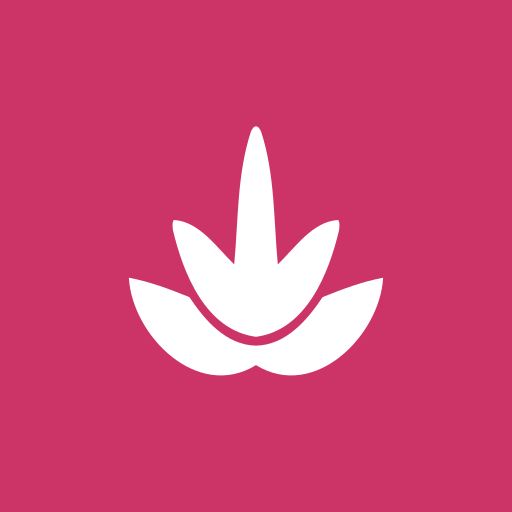
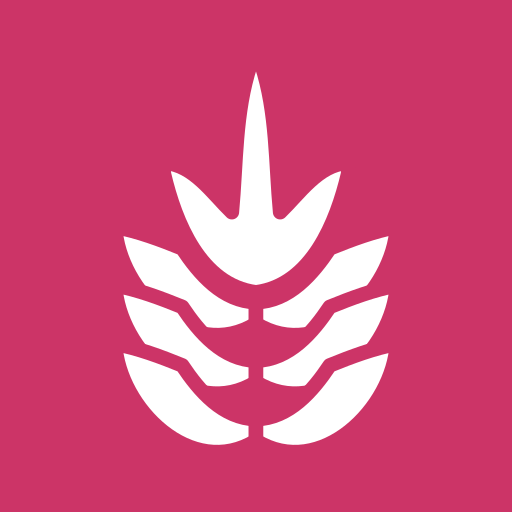
N1: update 8 files

Changed region(s): [[0.2188, 0.3438, 0.7812, 0.875], [0.4688, 0.1562, 0.5312, 0.3125]]

diff --git a/.workhorse/test-cases/n1/overview.md b/.workhorse/test-cases/n1/overview.md
@@ -1,19 +1,20 @@
 # Making the web client installable
 
-Covers the install criteria of [WEB](../../specs/web-app.md) and how the mark survives the platforms
-that redraw it. The manifest cases are automated in `crates/bliti-web/app/tests/installable.spec.js`;
+Covers the installability [WEB](../../specs/web-app.md) requires, and how the mark survives the
+platforms that redraw it. What a browser demands before it offers the install is the browser's own
+affair rather than something the spec fixes, so most of these cases stand on their own. The manifest cases are automated in `crates/bliti-web/app/tests/installable.spec.js`;
 the device cases are not automatable here, because whether a browser offers the install is the
 browser's own decision on its own hardware.
 
 ## The manifest
 
-- [x] The manifest is served and declares a name, a start URL and an installable display mode (verifies spec: WEB)
-- [x] The manifest declares a square PNG of at least 192px and one of at least 512px (verifies spec: WEB)
-- [x] The manifest declares a maskable icon (verifies spec: WEB)
-- [x] Every icon the manifest declares is served, and each PNG's real dimensions match the size it claims (verifies spec: WEB)
-- [x] The manifest states no preference for a related native application (verifies spec: WEB)
-- [x] The markup links the manifest, and a home-screen icon for platforms that ignore it (verifies spec: WEB)
-- [x] A service worker registers and serves the application's own assets (verifies spec: WEB)
+- [x] The manifest is served and declares a name, a start URL and an installable display mode
+- [x] The manifest declares a square PNG of at least 192px and one of at least 512px
+- [x] The manifest declares a maskable icon
+- [x] Every icon the manifest declares is served, and each PNG's real dimensions match the size it claims
+- [x] The manifest states no preference for a related native application
+- [x] The markup links the manifest, and a home-screen icon for platforms that ignore it
+- [x] A service worker registers and serves the application's own assets
 
 ## On an Android phone
 
@@ -22,7 +23,7 @@ rather than merely declared.
 
 - [ ] Chrome offers to install the application, over https, without the browser being coaxed by devtools (verifies spec: WEB)
 - [ ] The installed application launches from its home-screen icon into its own window, with no browser chrome (verifies spec: WEB)
-- [ ] The home-screen icon shows the flower, cropped to the launcher's shape without losing the mark (verifies spec: WEB)
+- [ ] The home-screen icon shows the flower, cropped to the launcher's shape without losing the mark
 - [ ] The installed application still opens a device's QR link, and still reaches the device over Bluetooth
 - [ ] With the phone offline, launching from the icon still loads the application and its icon (verifies spec: WEB)
 
@@ -30,10 +31,12 @@ rather than merely declared.
 
 Not the target device, but the path exists and the icon comes from the markup rather than the manifest.
 
-- [ ] Add to Home Screen gives the flower rather than a screenshot or a black tile (verifies spec: WEB)
+- [ ] Add to Home Screen gives the flower rather than a screenshot or a black tile
 
 ## The mark
 
-- [x] The flower reads at 192px, 96px and 48px without the petals merging
-- [x] The maskable icon keeps the flower inside the circle a launcher crops to (verifies spec: WEB)
+- [x] The flower reads at 192px and 96px with the chain of petals still distinct
+- [ ] The flower still reads at 48px and as a favicon, where the chain is busiest and the seams
+      between petals are close to vanishing
+- [x] The maskable icon fills the circle a launcher crops to, without the outermost petals crossing it
 - [ ] The icon is legible on a dark home-screen wallpaper and a light one

diff --git a/.workhorse/specs/web-app.md b/.workhorse/specs/web-app.md
@@ -55,32 +55,6 @@ The application MUST also be installable, such that a browser offers to add it t
 > Running uninstalled is what lets whoever is standing in front of a device provision it.
 > Working offline is what makes a phone that has opened the application before useful at a site with no connectivity, and it costs nothing, because the only transport to a device is the BLE channel of [CHN](channel.md).
 
-### Install criteria
-
-A browser decides whether to offer the install itself, against criteria it does not publish as a contract, so the following are what the application declares in order to meet them.
-
-The application MUST link a manifest declaring a name, a start URL within the served origin, a display mode of `fullscreen`, `standalone` or `minimal-ui`, and icons.
-
-The declared icons MUST include a square PNG of at least 192 pixels and a square PNG of at least 512 pixels.
-
-The application MUST register a service worker that serves the application's own assets.
-
-The application MUST NOT declare a preference for a related native application.
-
-> [!NOTE]
-> The two icon sizes are the criterion most easily left unmet, because a manifest without them is still valid and still links, and the application still runs: the only symptom is that the browser never offers the install.
-
-### Icons
-
-Every asset the manifest references MUST remain available offline once the application has been loaded.
-
-The application MUST declare a maskable icon, whose mark stays clear of the region a platform crops when it masks an icon to a shape of its own.
-
-The application MUST declare a home-screen icon in its markup, for platforms that take one from there rather than from the manifest.
-
-> [!NOTE]
-> A platform that masks an icon crops whatever it is given, so a mark drawn to the edge of the tile loses its edges; a platform that ignores the manifest composites a transparent icon onto black.
-
 ## Delivery
 
 The bundle MUST be built with a gzip, a brotli, and a zstd encoding beside each file those encodings make meaningfully smaller.
